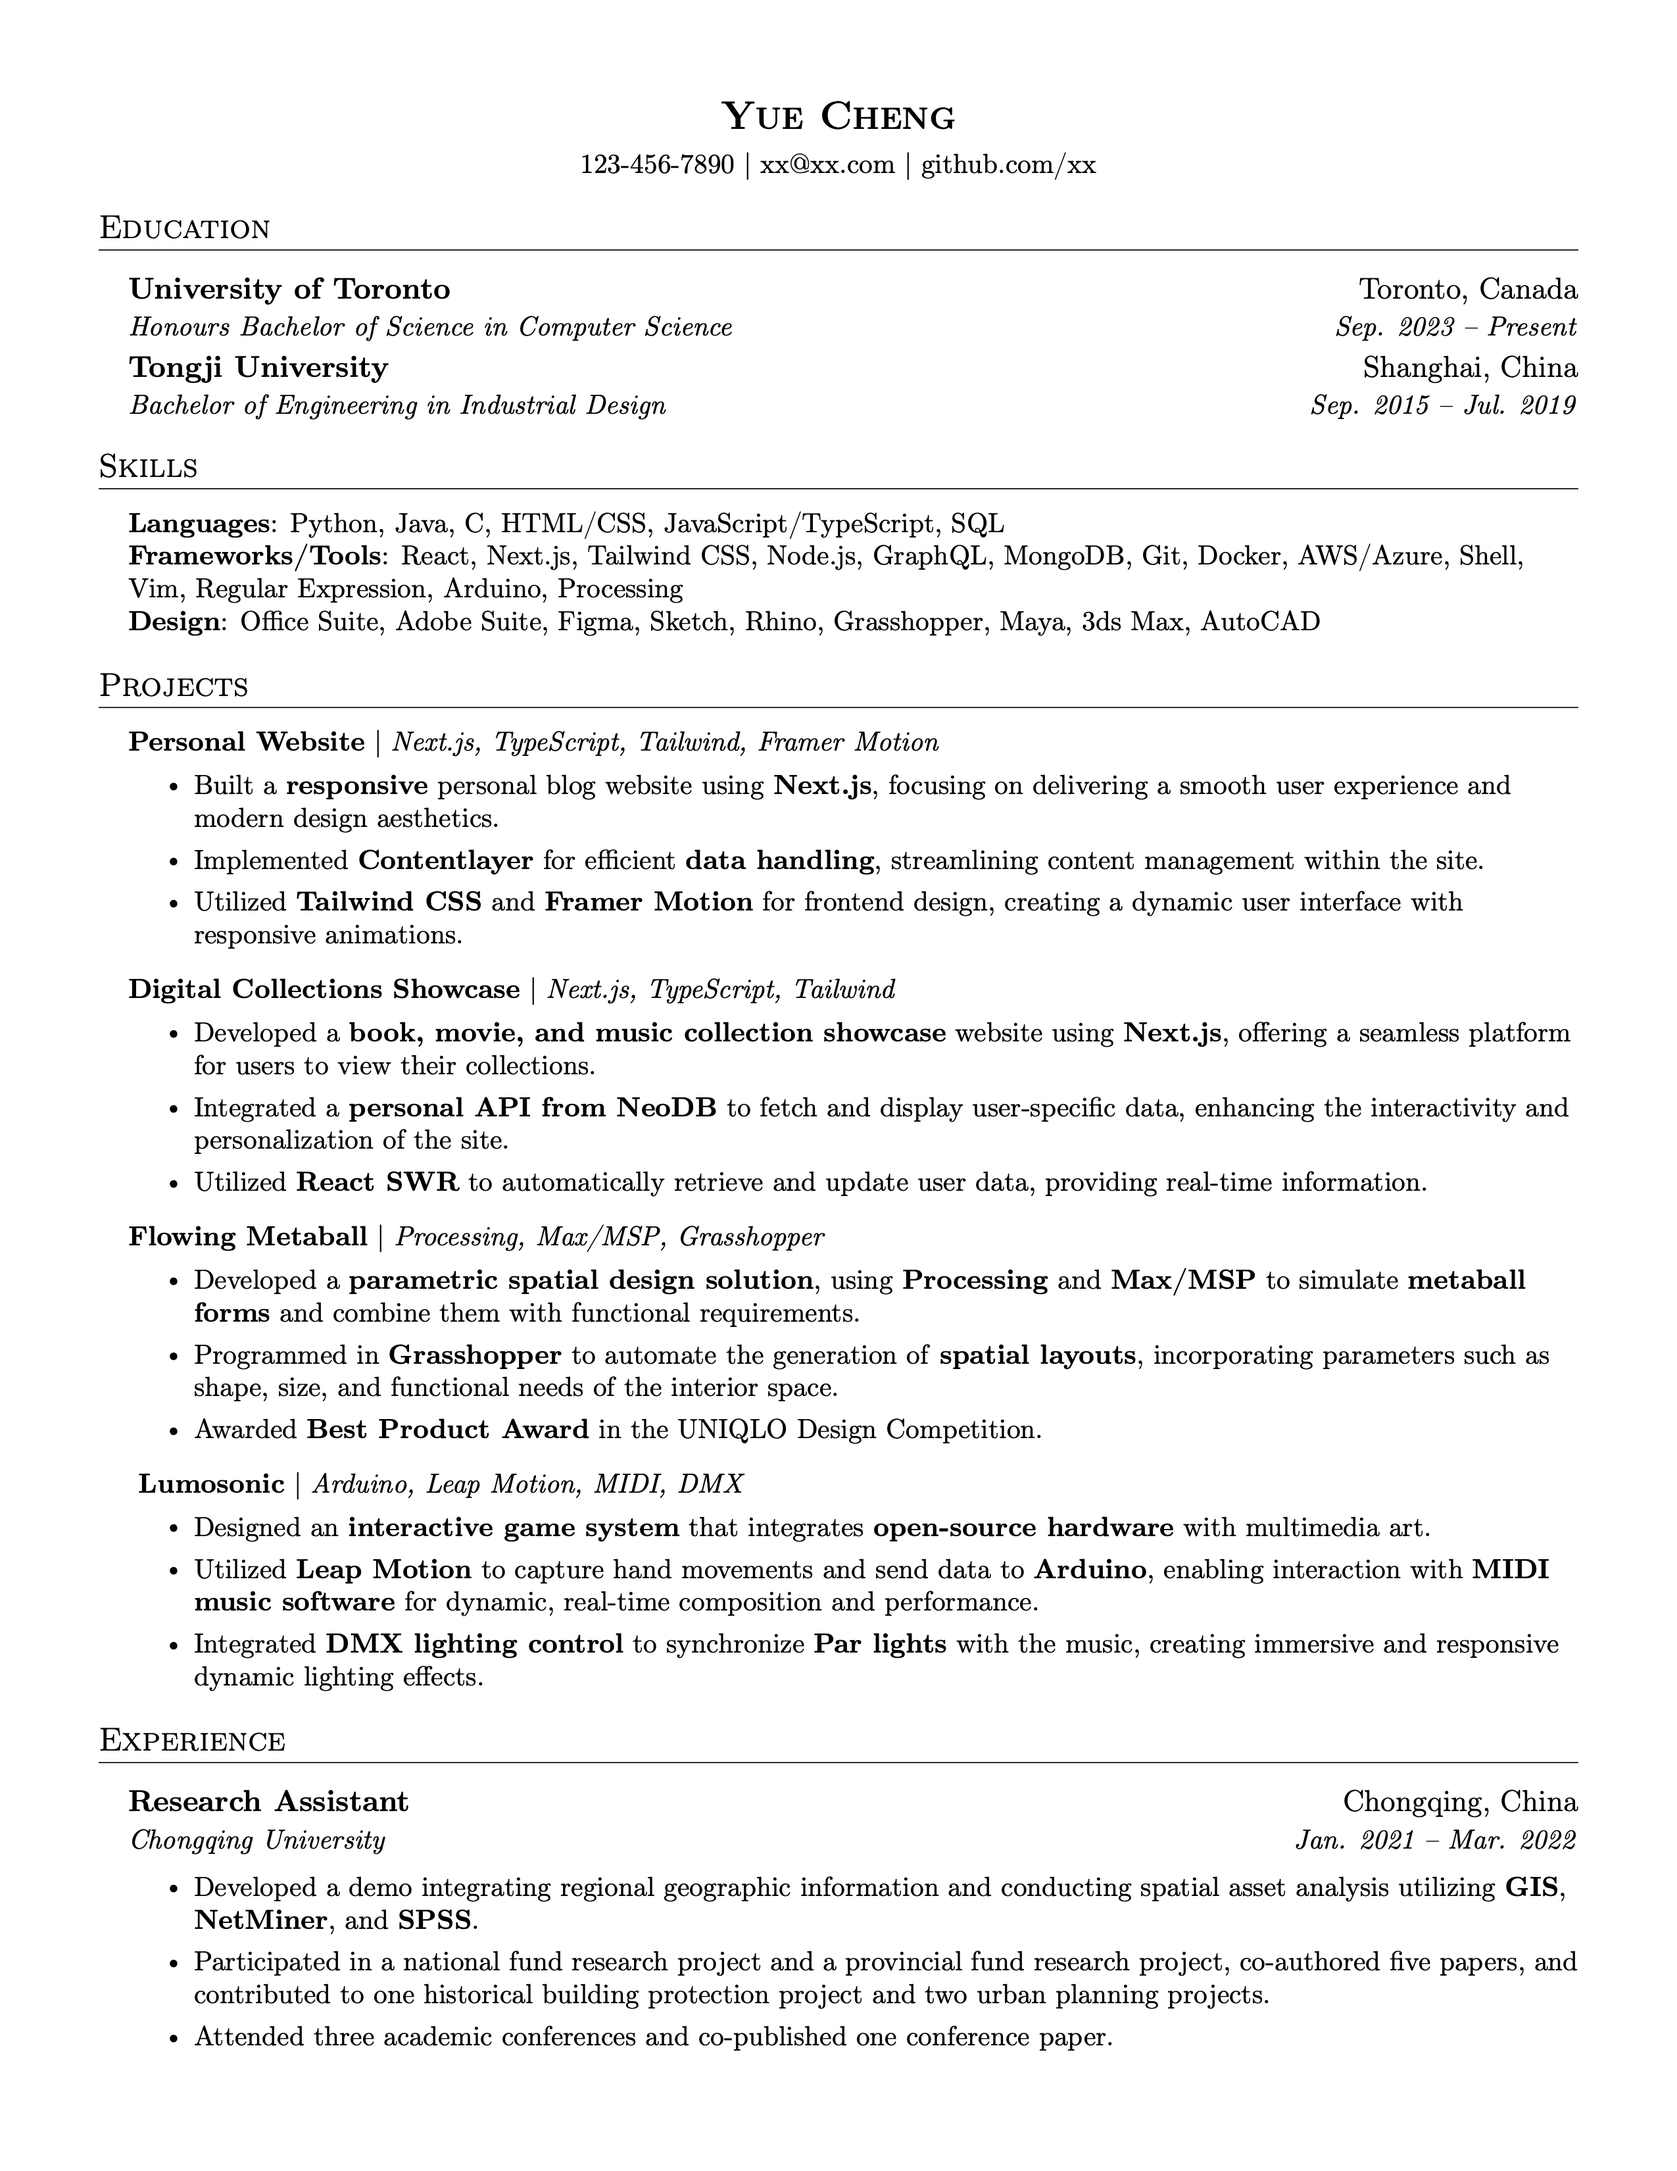
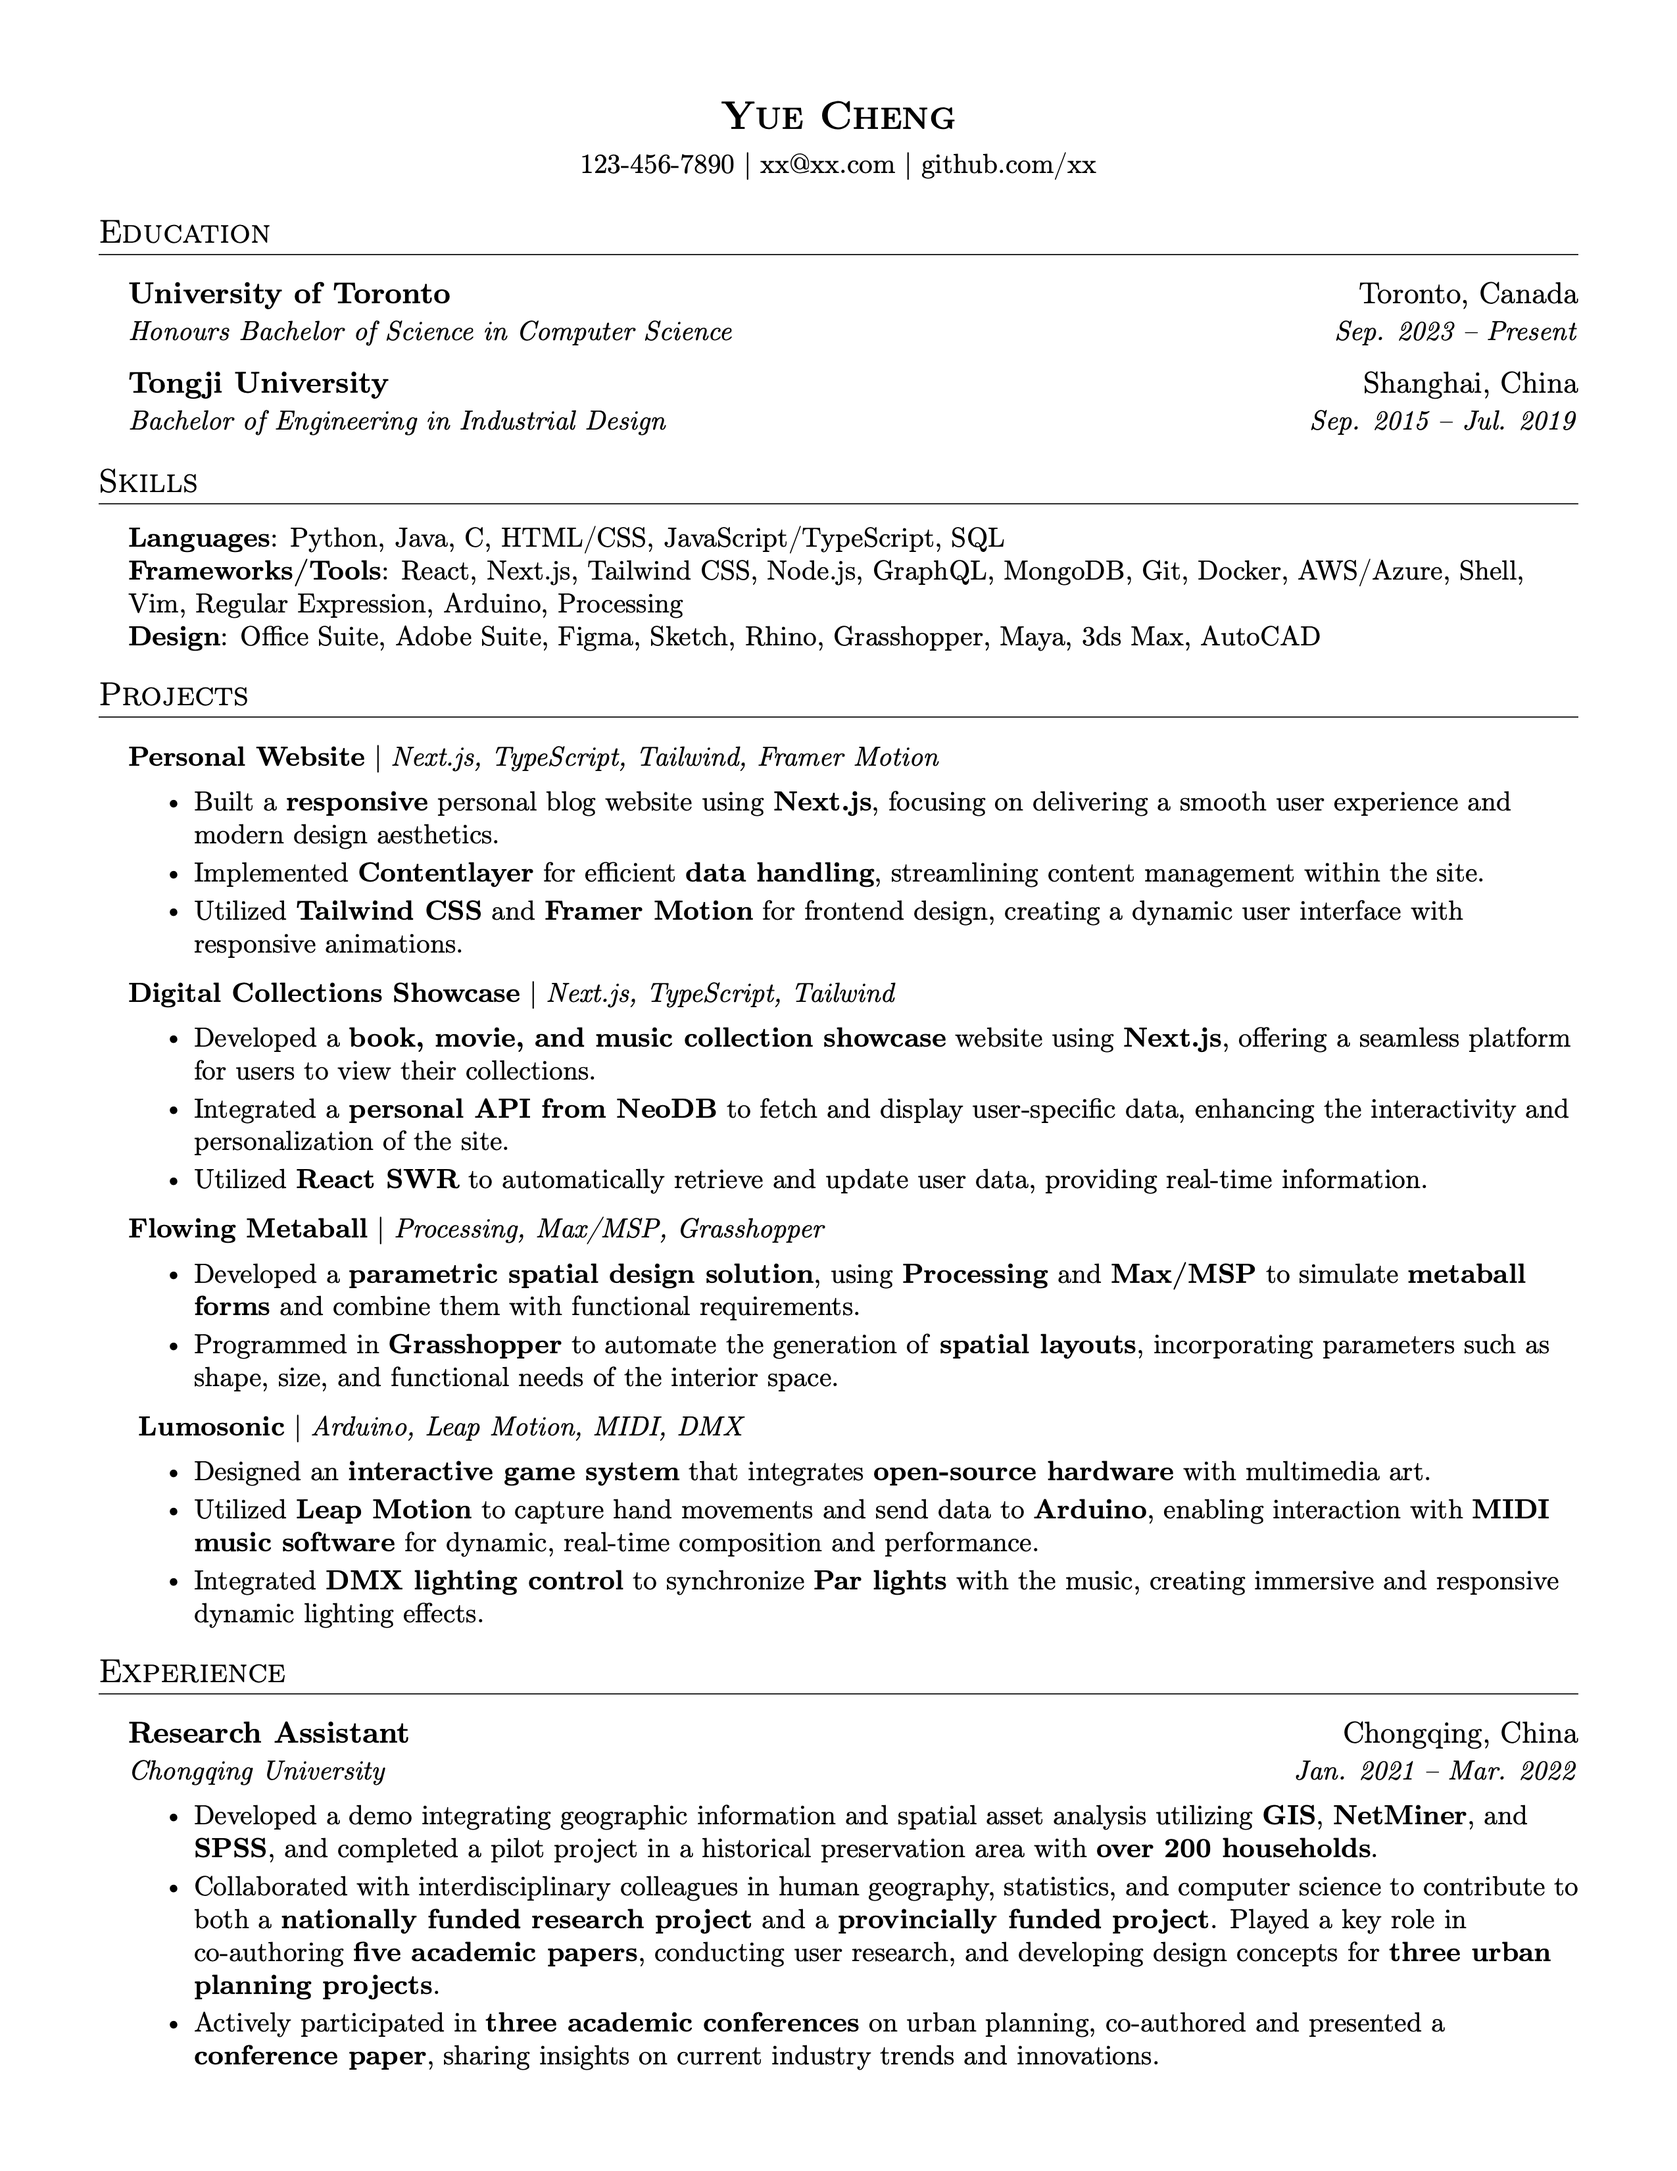
Update info

diff --git a/resume.tex b/resume.tex
@@ -1,22 +1,21 @@
 \documentclass[letterpaper,11pt]{article}
 
-\usepackage{latexsym}
-\usepackage{marvosym}
+\usepackage[utf8]{inputenc}
+\usepackage[T1]{fontenc}
+\usepackage[english]{babel}
+
 \usepackage[empty]{fullpage}
 \usepackage{fancyhdr}
-\usepackage[usenames,dvipsnames]{color}
 \usepackage{titlesec}
 \usepackage{verbatim}
 \usepackage{enumitem}
 \usepackage{tabularx}
 \usepackage[hidelinks]{hyperref}
-\usepackage[english]{babel}
-\usepackage[T1]{fontenc}
-\input{glyphtounicode}
+
+\pdfgentounicode=1
 
 \pagestyle{fancy}
 \fancyhf{}
-\fancyfoot{}
 \renewcommand{\headrulewidth}{0pt}
 \renewcommand{\footrulewidth}{0pt}
 
@@ -32,34 +31,34 @@
 \setlength{\footskip}{0.5in}
 
 \urlstyle{same}
-\pdfgentounicode=1
+
+\setlist[itemize]{itemsep=0pt, topsep=0pt}
+
+\titlespacing*{\section}{0pt}{8pt}{8pt}
 
 \titleformat{\section}{
   \scshape\raggedright\large
 }{}{0em}{}[\titlerule]
 
-\titlespacing*{\section}{0pt}{0pt}{8pt}
-
 \newcommand{\resumeSubheading}[4]{
   \item
-    \begin{tabular*}{0.98\textwidth}[t]{l@{\extracolsep{\fill}}r}
+    \begin{tabular*}{0.98\textwidth}{l@{\extracolsep{\fill}}r}
       \textbf{#1} & {#2} \\
       \textit{\small{#3}} & \textit{\small{#4}}
     \end{tabular*}
-    \vspace{-12pt}
 }
 
 \newcommand{\resumeProjectHeading}[2]{
-    \item \vspace{-2pt}
+    \item
     \begin{tabular*}{0.98\textwidth}{l@{\extracolsep{\fill}}r}
       \small{#1} & {#2}
     \end{tabular*}
-    \vspace{-18pt}
 }
 
 \newcommand{\resumeSubHeadingListStart}{\begin{itemize}[leftmargin=0.15in, label={}]}
 \newcommand{\resumeSubHeadingListEnd}{\end{itemize}}
-\newcommand{\resumeItemListStart}{\begin{itemize}}
+
+\newcommand{\resumeItemListStart}{\begin{itemize}\small}
 \newcommand{\resumeItemListEnd}{\end{itemize}}
 
 \newcommand{\resumeItem}[1]{
@@ -69,7 +68,6 @@
 \renewcommand\labelitemii{\(\vcenter{\hbox{\tiny\(\bullet\)}}\)}
 
 %-------------------------------------------
-
 \begin{document}
 
 % Contact
@@ -91,12 +89,10 @@
 {Bachelor of Engineering in Industrial Design}{Sep. 2015 -- Jul. 2019}
 \resumeSubHeadingListEnd
 
-\vspace{6pt}
-
 % Skills
 \section{Skills}
-\resumeSubHeadingListStart
-\small{\item{
+\resumeSubHeadingListStart \small
+{\item{
               \textbf{Languages}{: Python, Java, C, HTML/CSS, JavaScript/TypeScript, SQL} \\
               \textbf{Frameworks/Tools}{: React, Next.js, Tailwind CSS, Node.js, GraphQL, MongoDB, Git, Docker, AWS/Azure, Shell, Vim, Regular Expression, Arduino, Processing} \\
               \textbf{Design}{: Office Suite, Adobe Suite, Figma, Sketch, Rhino, Grasshopper, Maya, 3ds Max, AutoCAD} \\
@@ -106,8 +102,8 @@
 
 % Certificates
 % \section{Certificates}
-% \resumeSubHeadingListStart
-% \small{\item{
+% \resumeSubHeadingListStart \small
+% {\item{
 %               \textbf{Front-End}{: Meta Front-End Developer Professional Certificate} \\
 %               \textbf{Back-End}{: Meta Back-End Developer Professional Certificate}
 %         }}
@@ -123,7 +119,6 @@
 \resumeItem{Built a \textbf{responsive} personal blog website using \textbf{Next.js}, focusing on delivering a smooth user experience and modern design aesthetics.}
 \resumeItem{Implemented \textbf{Contentlayer} for efficient \textbf{data handling}, streamlining content management within the site.}
 \resumeItem{Utilized \textbf{Tailwind CSS} and \textbf{Framer Motion} for frontend design, creating a dynamic user interface with responsive animations.}
-% \resumeItem{Optimized \textbf{page rendering} by splitting \textbf{font files}, ensuring faster load times and improved performance.}
 \resumeItemListEnd
 
 \resumeProjectHeading
@@ -132,7 +127,6 @@
 \resumeItem{Developed a \textbf{book, movie, and music collection showcase} website using \textbf{Next.js}, offering a seamless platform for users to view their collections.}
 \resumeItem{Integrated a \textbf{personal API from NeoDB} to fetch and display user-specific data, enhancing the interactivity and personalization of the site.}
 \resumeItem{Utilized \textbf{React SWR} to automatically retrieve and update user data, providing real-time information.}
-% \resumeItem{Incorporated \textbf{responsive design}, ensuring the site is fully functional across devices.}
 \resumeItemListEnd
 
 \resumeProjectHeading
@@ -140,7 +134,6 @@
 \resumeItemListStart
 \resumeItem{Developed a \textbf{parametric spatial design solution}, using \textbf{Processing} and \textbf{Max/MSP} to simulate \textbf{metaball forms} and combine them with functional requirements.}
 \resumeItem{Programmed in \textbf{Grasshopper} to automate the generation of \textbf{spatial layouts}, incorporating parameters such as shape, size, and functional needs of the interior space.}
-\resumeItem{Awarded \textbf{Best Product Award} in the UNIQLO Design Competition.}
 \resumeItemListEnd
 
 \resumeProjectHeading
@@ -159,11 +152,10 @@
 \resumeSubheading
 {Research Assistant}{Chongqing, China}
 {Chongqing University}{Jan. 2021 -- Mar. 2022}
-\vspace{4pt}
 \resumeItemListStart
-\resumeItem{Developed a demo integrating regional geographic information and conducting spatial asset analysis utilizing \textbf{GIS}, \textbf{NetMiner}, and \textbf{SPSS}.}
-\resumeItem{Participated in a national fund research project and a provincial fund research project, co-authored five papers, and contributed to one historical building protection project and two urban planning projects.}
-\resumeItem{Attended three academic conferences and co-published one conference paper.}
+\resumeItem{Developed a demo integrating geographic information and spatial asset analysis utilizing \textbf{GIS}, \textbf{NetMiner}, and \textbf{SPSS}, and completed a pilot project in a historical preservation area with \textbf{over 200 households}.}
+\resumeItem{Collaborated with interdisciplinary colleagues in human geography, statistics, and computer science to contribute to both a \textbf{nationally funded research project} and a \textbf{provincially funded project}. Played a key role in co-authoring \textbf{five academic papers}, conducting user research, and developing design concepts for \textbf{three urban planning projects}.}
+\resumeItem{Actively participated in \textbf{three academic conferences} on urban planning, co-authored and presented a \textbf{conference paper}, sharing insights on current industry trends and innovations.}
 \resumeItemListEnd
 \resumeSubHeadingListEnd
 
